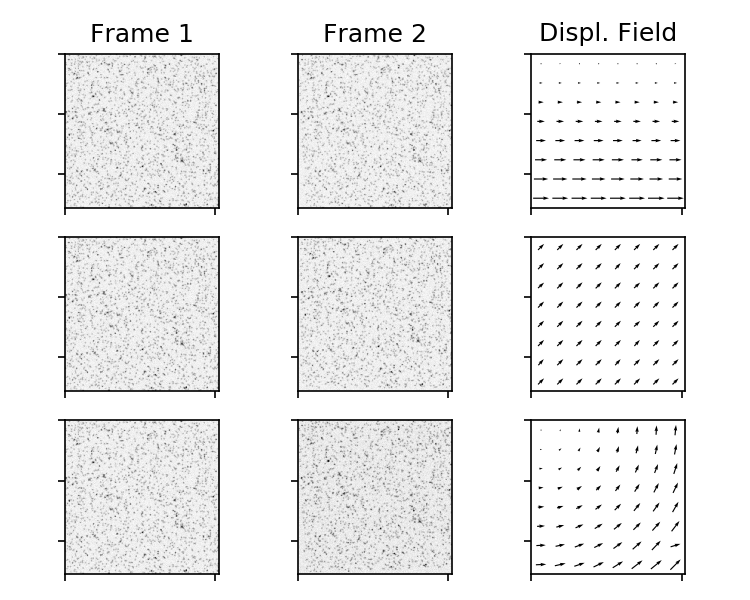
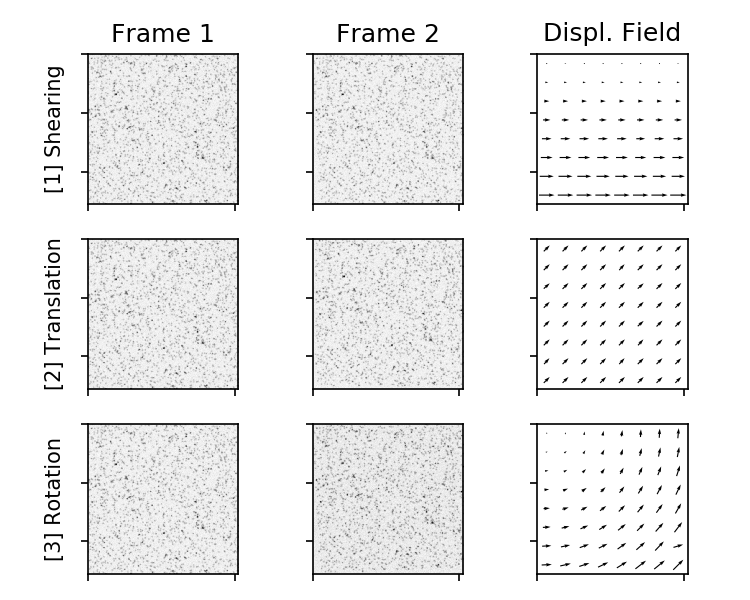
add ylabel

diff --git a/piv_demo.py b/piv_demo.py
@@ -150,17 +150,19 @@ ax[2].quiver(y01,x01,-uy1,ux1, pivot='mid', color='k')
 ax[0].set_title("Frame 1")
 ax[1].set_title("Frame 2")
 ax[2].set_title("Displ. Field")
+ax[0].set_ylabel("[1] Shearing")
 
 ax[3].imshow(frame_1)
 ax[4].imshow(frame_3)
 ax[5].imshow(np.zeros(img.shape))
 ax[5].quiver(y02,x02,-uy2,ux2, pivot='mid', color='k')
+ax[3].set_ylabel("[2] Translation")
 
 ax[6].imshow(frame_1)
 ax[7].imshow(frame_4)
 ax[8].imshow(np.zeros(img.shape))
 ax[8].quiver(y03,x03,-uy3,ux3, pivot='mid', color='k')
-
+ax[6].set_ylabel("[3] Rotation")
 
 #plt.subplots_adjust(wspace=0, hspace=0)
 plt.tight_layout()
